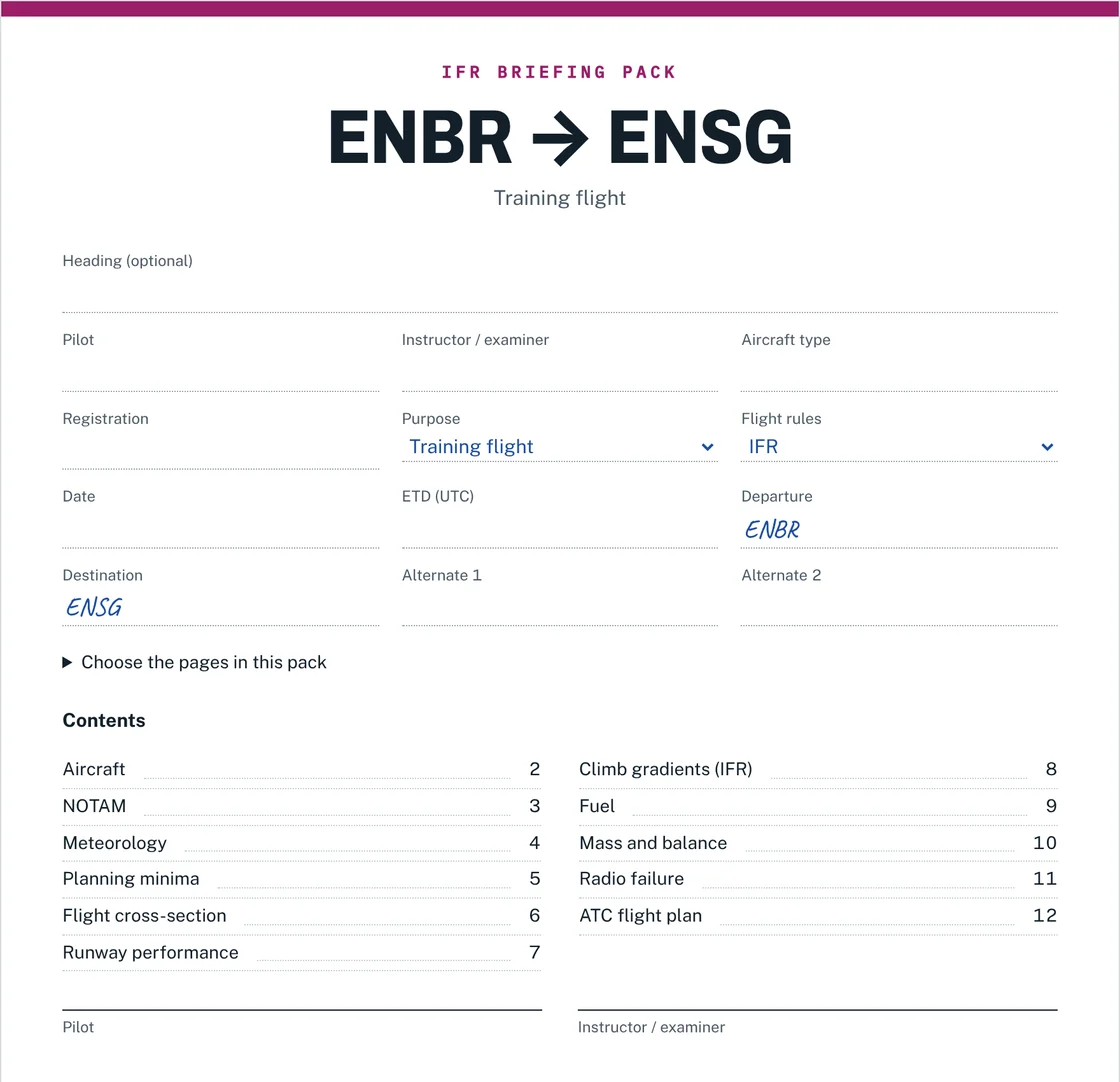
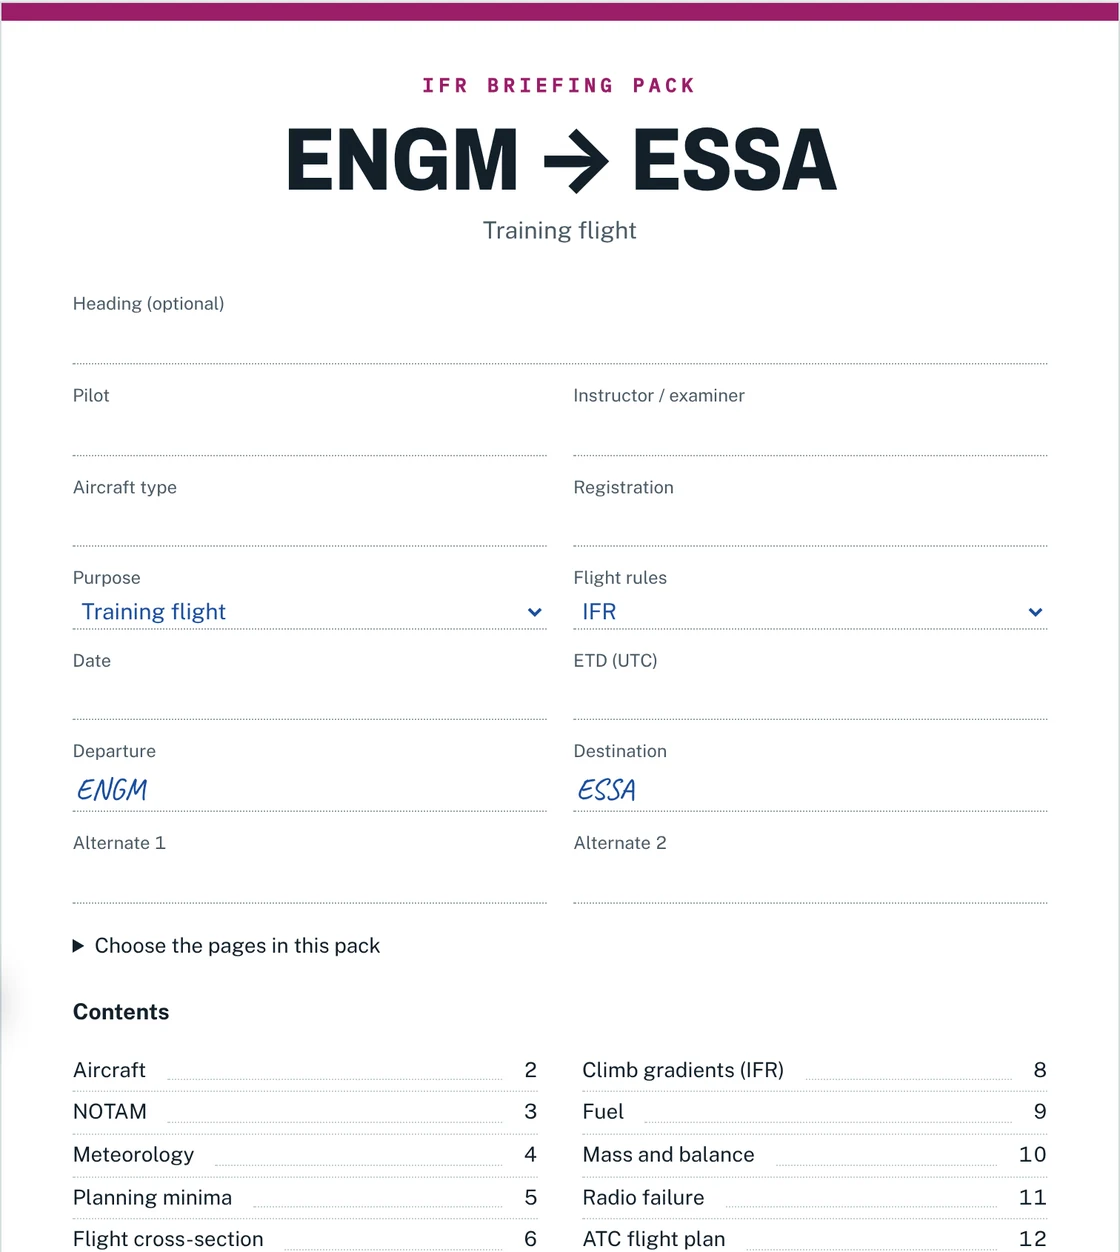
Front page: example route is now ENGM to ESSA (distance and terrain from Route Explorer, new briefing cover)
Claude-Session: https://claude.ai/code/session_01S9gHm57EQxZjGJ4cCC3jsu

diff --git a/index.html b/index.html
@@ -463,23 +463,23 @@
     <div class="fp-wrap">
       <header class="fp-head">
         <h2 id="h-fd" data-tx="h2b">From theory to the flight deck</h2>
-        <p data-tx="p2b">One route, Bergen Flesland to Sogndal, followed from the map to the printed pack. Flight Intelligence answers the questions along the way.</p>
+        <p data-tx="p2b">One route, Oslo Gardermoen to Stockholm Arlanda, followed from the map to the printed pack. Flight Intelligence answers the questions along the way.</p>
       </header>
 
       <div class="fp-row">
         <figure class="fp-fig">
           <div class="shot shot-169"><img src="img/front/route-sat-1400.webp" srcset="img/front/route-sat-700.webp 700w, img/front/route-sat-1400.webp 1400w" sizes="(max-width:980px) 100vw, 700px" width="1400" height="788" loading="lazy" decoding="async"
-            alt="Route Explorer in 3D, seen from the side and close to the terrain: the route from Bergen Flesland to Sogndal drawn over the mountains on satellite imagery, with snow on the peaks and fjords on either side." data-alt-no="Route Explorer i 3D, sett fra siden og tett på terrenget: ruten fra Bergen lufthavn Flesland til Sogndal tegnet over fjellet på satellittbilder, med snø på toppene og fjorder på begge sider."></div>
-          <figcaption data-tx="capRt"><b>Route Explorer, 3D:</b> ENBR → ENSG over the mountains towards Sogndal, terrain 1.5× exaggerated, satellite imagery © Esri, Maxar, Earthstar Geographics</figcaption>
+            alt="Route Explorer in 3D, seen from the side and close to the terrain: a route drawn in magenta over mountains on satellite imagery." data-alt-no="Route Explorer i 3D, sett fra siden og tett på terrenget: en rute tegnet i magenta over fjell på satellittbilder."></div>
+          <figcaption data-tx="capRt"><b>Route Explorer, 3D:</b> a route drawn over the terrain on satellite imagery, terrain 1.5× exaggerated, satellite imagery © Esri, Maxar, Earthstar Geographics</figcaption>
         </figure>
         <div class="txt">
           <h3>Route Explorer</h3>
           <p data-tx="rt">Draw the route on a VFR map in 2D or 3D, with airspace, airports and navaids, and read the terrain under it. The profile is computed from public elevation data.</p>
           <dl class="fp-facts">
-            <dt data-tx="f1">Route</dt><dd>ENBR → ENSG</dd>
-            <dt data-tx="f2">Distance</dt><dd data-tx="d2">76.5 NM</dd>
-            <dt data-tx="f3">Highest terrain within 4.3 NM</dt><dd data-tx="d3">5,493 ft</dd>
-            <dt data-tx="f4">Highest point under the track</dt><dd data-tx="d4">4,715 ft</dd>
+            <dt data-tx="f1">Route</dt><dd>ENGM → ESSA</dd>
+            <dt data-tx="f2">Distance</dt><dd data-tx="d2">207.8 NM</dd>
+            <dt data-tx="f3">Highest terrain within 4.3 NM</dt><dd data-tx="d3">2,756 ft</dd>
+            <dt data-tx="f4">Highest point under the track</dt><dd data-tx="d4">1,376 ft</dd>
           </dl>
           <a class="tl" href="route.html" data-tx="goRt">Open Route Explorer</a>
         </div>
@@ -487,9 +487,9 @@
 
       <div class="fp-row flip">
         <figure class="fp-fig fig-bp">
-          <div class="shot"><img src="img/front/briefing-1120.webp" srcset="img/front/briefing-560.webp 560w, img/front/briefing-1120.webp 1120w" sizes="(max-width:980px) 100vw, 560px" width="1120" height="1082" loading="lazy" decoding="async"
-            alt="The cover of an IFR briefing pack, ENBR to ENSG, with fields for pilot, aircraft and alternates, a contents list of the pack's twelve pages and signature lines." data-alt-no="Forsiden av en IFR-briefingpakke, ENBR til ENSG, med felt for pilot, fly og alternativer, en innholdsliste over pakkens tolv sider og signaturlinjer."></div>
-          <figcaption data-tx="capBp"><b>Briefing pack, cover page.</b> An IFR training flight, ENBR to ENSG: the contents follow the fixed order of the pack, and the cover is signed by pilot and instructor.</figcaption>
+          <div class="shot"><img src="img/front/briefing-1120.webp" srcset="img/front/briefing-560.webp 560w, img/front/briefing-1120.webp 1120w" sizes="(max-width:980px) 100vw, 560px" width="1120" height="1252" loading="lazy" decoding="async"
+            alt="The cover of an IFR briefing pack, ENGM to ESSA, with fields for pilot, aircraft and alternates, a contents list of the pack's twelve pages and signature lines." data-alt-no="Forsiden av en IFR-briefingpakke, ENGM til ESSA, med felt for pilot, fly og alternativer, en innholdsliste over pakkens tolv sider og signaturlinjer."></div>
+          <figcaption data-tx="capBp"><b>Briefing pack, cover page.</b> An IFR training flight, ENGM to ESSA: the contents follow the fixed order of the pack, and the cover is signed by pilot and instructor.</figcaption>
         </figure>
         <div class="txt">
           <h3 data-tx="h3bp">Briefing pack</h3>
@@ -597,12 +597,12 @@ LAB.tx({
  capSt:'<b>Tordenvær og vindskjær.</b> Uværslabbens enkeltcelle, fra en godværscumulus til en moden cumulonimbus og oppløsningen, en time stormtid på et halvt minutt. Velg et stadium i panelet, eller åpne labben for å fly gjennom den.',
  goSt:'Åpne uværslabben', fsNote:'Høyder tegnet 1,5 ganger høyere', fsK:'Utvikling · enkeltcelle', fsLay:'Vis',
  h2b:'Fra teori til cockpit',
- p2b:'Én rute, Bergen lufthavn Flesland til Sogndal, fulgt fra kartet til den utskrevne pakken. Flight Intelligence svarer på spørsmålene underveis.',
- capRt:'<b>Route Explorer, 3D:</b> ENBR → ENSG over fjellet mot Sogndal, terrenget 1,5× overdrevet, satellittbilder © Esri, Maxar, Earthstar Geographics',
+ p2b:'Én rute, Oslo lufthavn Gardermoen til Stockholm Arlanda, fulgt fra kartet til den utskrevne pakken. Flight Intelligence svarer på spørsmålene underveis.',
+ capRt:'<b>Route Explorer, 3D:</b> en rute tegnet over terrenget på satellittbilder, terrenget 1,5× overdrevet, satellittbilder © Esri, Maxar, Earthstar Geographics',
  rt:'Tegn ruten på et VFR-kart i 2D eller 3D, med luftrom, flyplasser og navigasjonshjelpemidler, og les terrenget under den. Profilen beregnes fra offentlige høydedata.',
- d2:'76,5 NM', d3:'5 493 ft', d4:'4 715 ft',
+ d2:'207,8 NM', d3:'2 756 ft', d4:'1 376 ft',
  f1:'Rute', f2:'Distanse', f3:'Høyeste terreng innen 4,3 NM', f4:'Høyeste punkt under sporet', goRt:'Åpne Route Explorer',
- capBp:'<b>Briefingpakke, forside.</b> En IFR-treningsflyging, ENBR til ENSG: innholdet følger pakkens faste rekkefølge, og forsiden signeres av pilot og instruktør.',
+ capBp:'<b>Briefingpakke, forside.</b> En IFR-treningsflyging, ENGM til ESSA: innholdet følger pakkens faste rekkefølge, og forsiden signeres av pilot og instruktør.',
  h3bp:'Briefingpakke',
  bp:'Én pakke per flyging, i fast rekkefølge: fly, NOTAM, vær, minima, profil, ytelse, drivstoff, masse og balanse, radiosvikt og flyplanen. VFR eller IFR. Legg til eller fjern sider etter behov, og skriv den ut som et hefte.',
  goBp:'Lag en briefingpakke',
